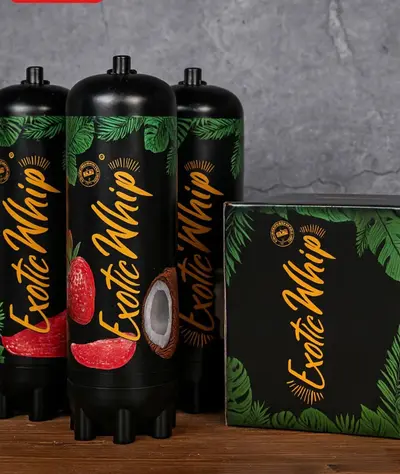
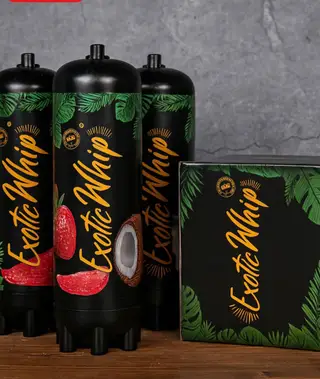
perf: improve mobile LCP via smaller hero, webp-first mobile source, lighter mobile hero effects

diff --git a/client/src/pages/Home.tsx b/client/src/pages/Home.tsx
@@ -67,21 +67,21 @@ export default function Home() {
 
           <div className="flex-1 w-full max-w-lg lg:max-w-xl relative">
             <div className="relative z-10">
-              <div aria-hidden="true" className="absolute inset-0 bg-gradient-to-tr from-primary/30 to-amber-500/30 blur-[80px] rounded-full scale-90" />
+              <div aria-hidden="true" className="absolute inset-0 bg-gradient-to-tr from-primary/30 to-amber-500/30 blur-[48px] md:blur-[80px] rounded-full scale-90" />
               <picture>
+                <source media="(max-width: 640px)" srcSet={heroImage.webpSm} type="image/webp" />
                 <source media="(max-width: 640px)" srcSet={heroImage.avifSm} type="image/avif" />
                 <source srcSet={heroImage.avif} type="image/avif" />
-                <source media="(max-width: 640px)" srcSet={heroImage.webpSm} type="image/webp" />
                 <source srcSet={heroImage.webp} type="image/webp" />
                 <img 
                   src={heroImage.fallback} 
                   alt="Exotic Whip райски газ флакон за доставка в София" 
                   width={540}
                   height={640}
+                  loading="eager"
                   fetchPriority="high"
                   sizes="(max-width: 640px) calc(100vw - 48px), (max-width: 1024px) 50vw, 36rem"
-                  decoding="async"
-                  className="w-full h-auto object-cover rounded-[2rem] border border-white/10 shadow-[0_0_50px_rgba(0,0,0,0.5)] relative z-10"
+                  className="w-full h-auto object-cover rounded-[2rem] border border-white/10 shadow-[0_0_30px_rgba(0,0,0,0.5)] md:shadow-[0_0_50px_rgba(0,0,0,0.5)] relative z-10"
                 />
               </picture>
               <div className="absolute inset-0 rounded-[2rem] border border-primary/20 pointer-events-none mix-blend-overlay" />

diff --git a/script/optimize-images.ts b/script/optimize-images.ts
@@ -66,12 +66,12 @@ async function optimizeOne(item: SourceItem) {
 
   // Generate smaller mobile variant for hero image
   if (item.outName === "hero") {
-    const smWidth = 400;
+    const smWidth = 320;
     await input.clone().resize({ width: smWidth, withoutEnlargement: true })
-      .avif({ quality: 50, effort: 4 })
+      .avif({ quality: 45, effort: 4 })
       .toFile(path.join(OUT_DIR, "hero-sm.avif"));
     await input.clone().resize({ width: smWidth, withoutEnlargement: true })
-      .webp({ quality: 75, effort: 4 })
+      .webp({ quality: 68, effort: 4 })
       .toFile(path.join(OUT_DIR, "hero-sm.webp"));
     console.log("  → generated hero-sm (mobile) variants");
   }

diff --git a/client/index.html b/client/index.html
@@ -15,7 +15,7 @@
     <link rel="apple-touch-icon" href="/favicon.png" />
 
     <!-- Preload hero image for faster LCP -->
-    <link rel="preload" as="image" type="image/avif" href="/images/hero-sm.avif" media="(max-width: 640px)" fetchpriority="high" />
+    <link rel="preload" as="image" type="image/webp" href="/images/hero-sm.webp" media="(max-width: 640px)" fetchpriority="high" />
     <link rel="preload" as="image" type="image/avif" href="/images/hero.avif" media="(min-width: 641px)" fetchpriority="high" />
 
     <!-- Preconnect & DNS-prefetch for external fonts -->
